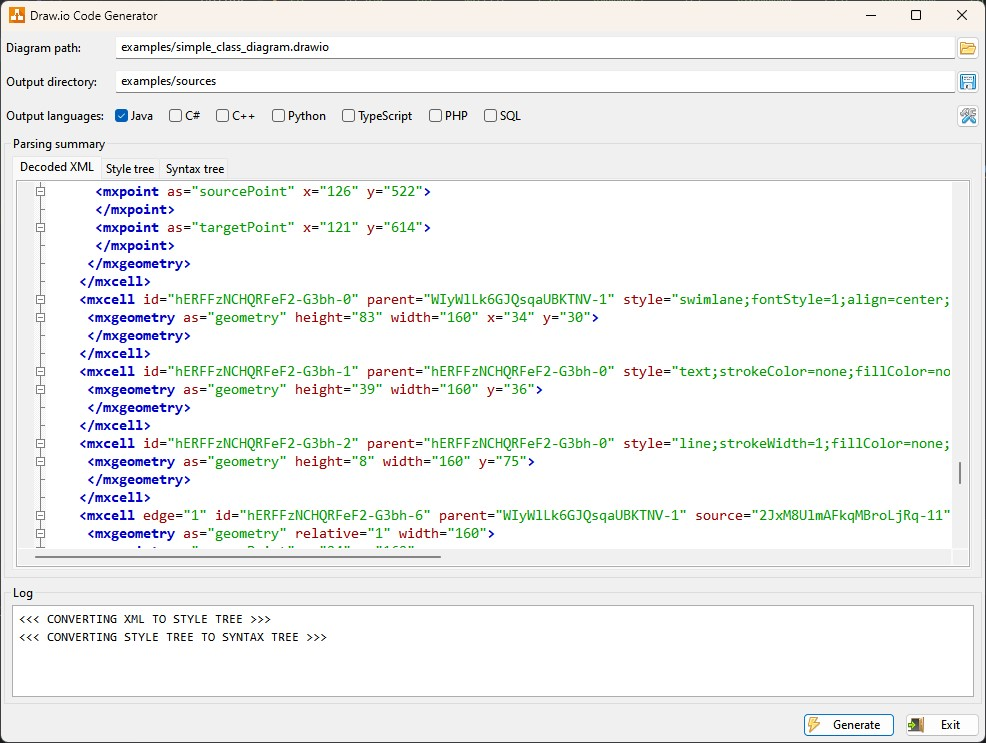
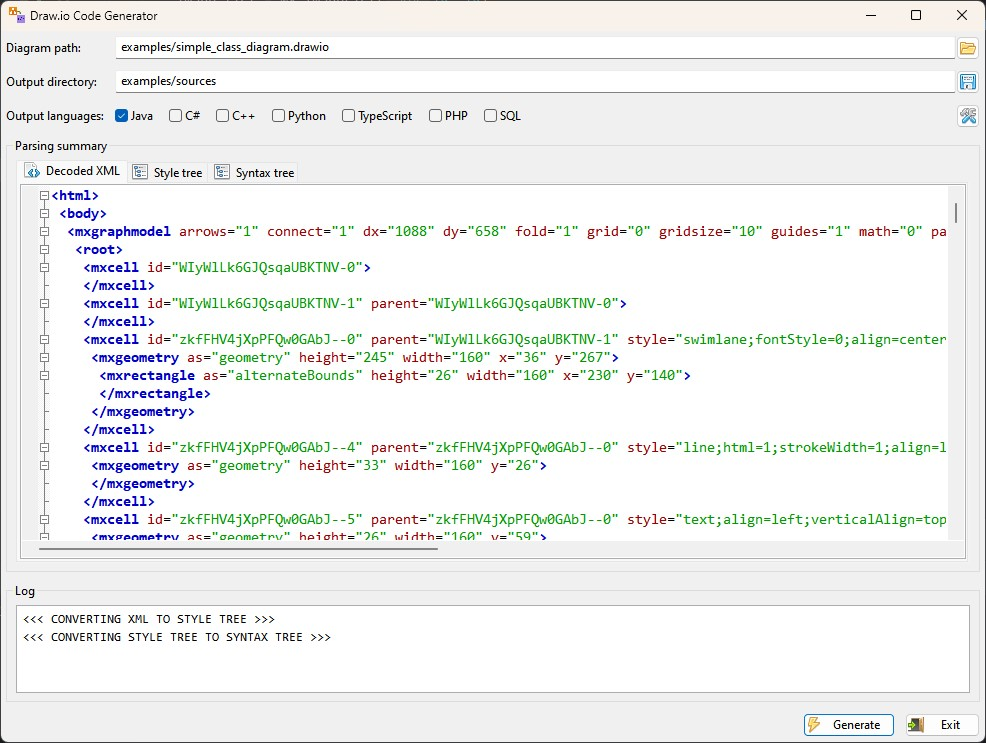
Minor GUI updates

diff --git a/ui/main_frame.py b/ui/main_frame.py
@@ -24,20 +24,25 @@ class MainFrame (MainFrameBase):
         self.SetSize(MAIN_FRAME_SIZE)
 
         icon = wx.Icon()
-        icon.CopyFromBitmap(wx.Bitmap(self.asset_path(u"assets/icons/drawio-icon.png"), wx.BITMAP_TYPE_ANY))
+        icon.CopyFromBitmap(wx.Bitmap(self.asset_path(u"assets/icons/app-icon.png"), wx.BITMAP_TYPE_ANY))
         self.SetIcon(icon)
 
         self.txtDiagramPath.SetValue("examples/simple_class_diagram.drawio")
         self.txtOutputPath.SetValue("examples/sources")
 
+        image_list = wx.ImageList(16, 16)
+        image_list.Add(wx.Bitmap(self.asset_path(u"assets/icons/page_white_code.png"), wx.BITMAP_TYPE_ANY))
+        image_list.Add(wx.Bitmap(self.asset_path(u"assets/icons/node-tree.png"), wx.BITMAP_TYPE_ANY))
+        self.nbTrees.AssignImageList(image_list)
+
         self.stcDecodedXml = XMLStyledTextCtrl(self.nbTrees)
-        self.nbTrees.AddPage(self.stcDecodedXml, "Decoded XML", True)
+        self.nbTrees.AddPage(self.stcDecodedXml, "Decoded XML", True, 0)
 
         self.tlcStyle = SymbolTreeCtrl(self.nbTrees)
-        self.nbTrees.AddPage(self.tlcStyle, "Style tree")
+        self.nbTrees.AddPage(self.tlcStyle, "Style tree", imageId=1)
 
         self.tlcSyntax = SymbolTreeCtrl(self.nbTrees)
-        self.nbTrees.AddPage(self.tlcSyntax, "Syntax tree")
+        self.nbTrees.AddPage(self.tlcSyntax, "Syntax tree", imageId=1)
 
         self.rtcStdout.SetFont(wx.Font(wx.FontInfo(FACES['size2']).FaceName(FACES['mono'])))
 
